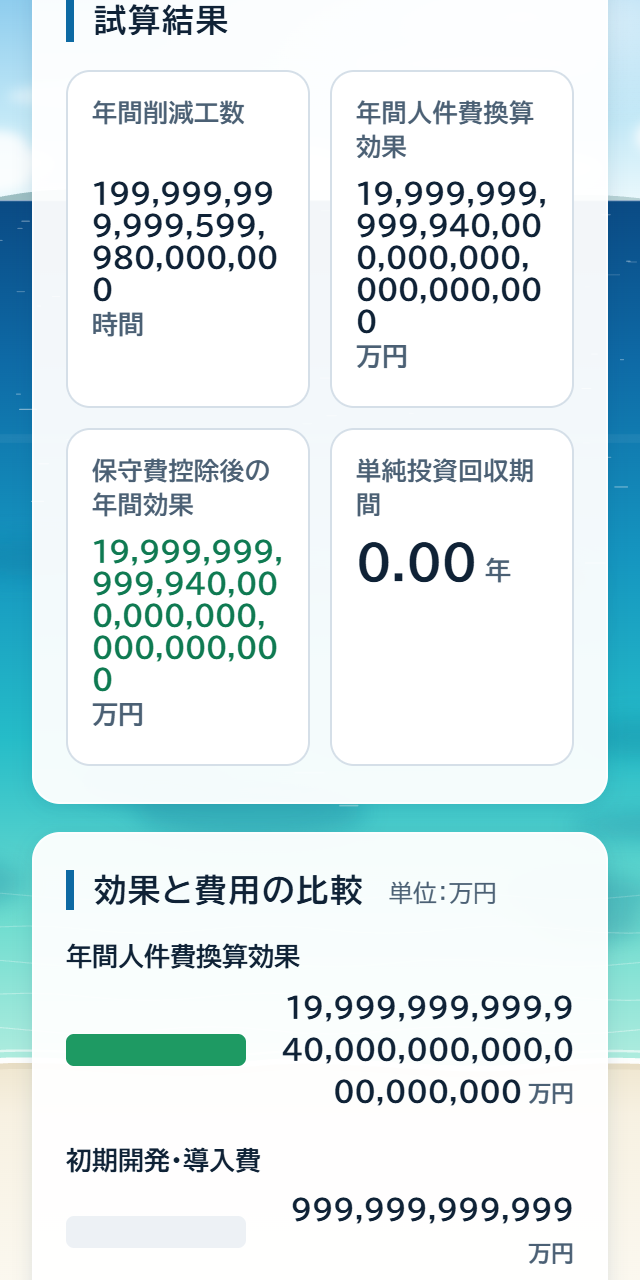
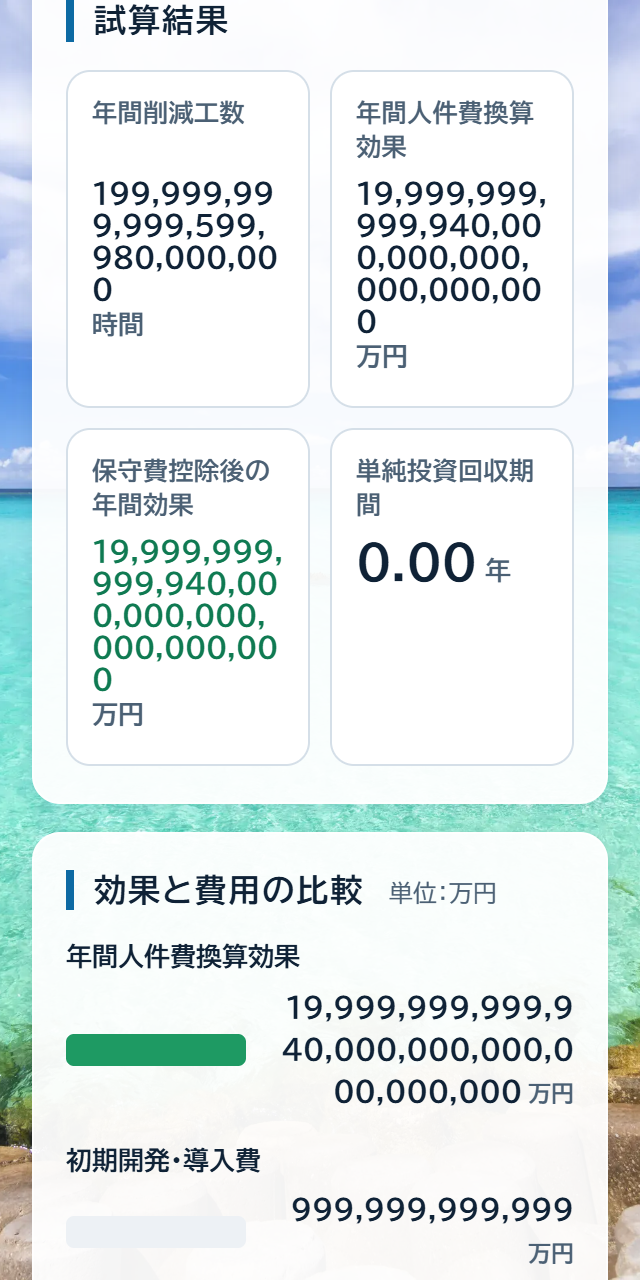
feat: replace background with Okinawa sea photo (v1.0.1)
- img/okinawa-sea.webp replaces the drawn SVG; generator script removed
- white halo on the title for readability over the photo
- tests read the version from app.js instead of hard-coding it

Changed region(s): [[0.0, 0.0, 1.0, 1.0], [0.9375, 0.0, 1.0, 0.0625]]

diff --git a/tests/e2e.test.js b/tests/e2e.test.js
@@ -25,6 +25,8 @@ const CHROME = [
   '/usr/bin/google-chrome',
 ].filter(Boolean).find(p => fs.existsSync(p));
 const sleep = ms => new Promise(r => setTimeout(r, ms));
+/** 今の版（js/app.js の APP_VERSION） */
+const VER = fs.readFileSync(path.join(ROOT, 'js', 'app.js'), 'utf8').match(/APP_VERSION = '([^']+)'/)[1];
 
 // ---------- 試験用の配信（更新試験のときだけ版を差し替える） ----------
 const MIME = { '.html': 'text/html; charset=utf-8', '.js': 'text/javascript; charset=utf-8', '.css': 'text/css; charset=utf-8',
@@ -39,7 +41,7 @@ function startServer() {
       const file = path.join(ROOT, p);
       if (!file.startsWith(ROOT) || !fs.existsSync(file) || fs.statSync(file).isDirectory()) { res.writeHead(404); return res.end(); }
       let body = fs.readFileSync(file);
-      if (nextVersion && (p === '/sw.js' || p === '/js/app.js')) body = Buffer.from(body.toString().replace(/'1\.0\.0'/g, `'${nextVersion}'`));
+      if (nextVersion && (p === '/sw.js' || p === '/js/app.js')) body = Buffer.from(body.toString().split(`'${VER}'`).join(`'${nextVersion}'`));
       res.writeHead(200, { 'Content-Type': MIME[path.extname(file)] || 'application/octet-stream', 'Cache-Control': 'no-cache' });
       res.end(body);
     });
@@ -224,9 +226,9 @@ async function shot(name, width, height, mobile, scrollTo) {
     await ev('navigator.serviceWorker.ready.then(() => true)');
     await reload();
     const info = await ev(`(async () => ({ controlled: !!navigator.serviceWorker.controller, keys: await caches.keys(),
-      n: (await (await caches.open('roi-simulator-1.0.0')).keys()).length }))()`);
+      n: (await (await caches.open('roi-simulator-${VER}')).keys()).length }))()`);
     ok(info.controlled, 'Service Worker が画面を制御していない');
-    eq(info.keys, ['roi-simulator-1.0.0'], 'キャッシュ名');
+    eq(info.keys, [`roi-simulator-${VER}`], 'キャッシュ名');
     eq(info.n, 13, 'キャッシュしたファイル数');
     return `キャッシュ ${info.n} ファイル`;
   });
@@ -415,7 +417,7 @@ async function shot(name, width, height, mobile, scrollTo) {
     await setAll({ casesPerMonth: 3000 });
     const s = await snapshot();
     eq(cardTexts(s), ['6,000', '3,000', '2,900', '0.17'], 'オフラインでの結果');
-    const bg = await ev(`new Promise(r => { const i = new Image(); i.onload = () => r(true); i.onerror = () => r(false); i.src = './img/okinawa-sea.svg?x=1'; })`);
+    const bg = await ev(`new Promise(r => { const i = new Image(); i.onload = () => r(true); i.onerror = () => r(false); i.src = './img/okinawa-sea.webp?x=1'; })`);
     ok(bg, '背景画像がオフラインで出ない');
     await cdp.send('Network.emulateNetworkConditions', { offline: false, latency: 0, downloadThroughput: -1, uploadThroughput: -1 });
     await startServer();
@@ -425,26 +427,26 @@ async function shot(name, width, height, mobile, scrollTo) {
 
   await test('アプリ更新後に新しい版になり、古いキャッシュが消える', async () => {
     await ev(`caches.open('tire-pressure-v3').then(() => true)`);        // 同じ住所の他アプリのキャッシュ（消えてはいけない）
-    nextVersion = '1.0.1-test';
+    nextVersion = VER + '-next';
     await reload();                                                      // 古い版で開く → 裏で新しい版を検出 → 自動で 1 回読み直す
     let s;
     for (let i = 0; i < 40; i++) {
       await sleep(250);
-      try { s = await snapshot(); if (s.version === 'v1.0.1-test') break; } catch (e) { /* 読み直し中 */ }
+      try { s = await snapshot(); if (s.version === 'v' + nextVersion) break; } catch (e) { /* 読み直し中 */ }
     }
-    eq(s.version, 'v1.0.1-test', '表示中の版');
+    eq(s.version, 'v' + nextVersion, '表示中の版');
     const keys = await ev('caches.keys()');
-    eq(keys.slice().sort(), ['roi-simulator-1.0.1-test', 'tire-pressure-v3'], 'キャッシュ（古い版だけ消える）');
+    eq(keys.slice().sort(), [`roi-simulator-${nextVersion}`, 'tire-pressure-v3'], 'キャッシュ（古い版だけ消える）');
     eq(cardTexts(s), ['3,000', '1,500', '1,400', '0.36'], '更新後の計算');
     nextVersion = null;                                                  // 元の版に戻す（以降の試験と画面写真のため）
     await reload();
     for (let i = 0; i < 40; i++) {
       await sleep(250);
-      try { s = await snapshot(); if (s.version === 'v1.0.0') break; } catch (e) { /* 読み直し中 */ }
+      try { s = await snapshot(); if (s.version === 'v' + VER) break; } catch (e) { /* 読み直し中 */ }
     }
-    eq(s.version, 'v1.0.0', '元の版に戻る');
+    eq(s.version, 'v' + VER, '元の版に戻る');
     await ev(`caches.delete('tire-pressure-v3')`);
-    return '開き直し 1 回で v1.0.0 → v1.0.1-test（→ v1.0.0 に戻す）・他アプリのキャッシュは残る';
+    return `開き直し 1 回で v${VER} → v${VER}-next（→ v${VER} に戻す）・他アプリのキャッシュは残る`;
   });
 
   await test('素の 127.0.0.1 では Service Worker を登録しない（他アプリと競合しない）', async () => {

diff --git a/css/app.css b/css/app.css
@@ -27,7 +27,7 @@ body {
   min-height: 100vh;
   font-family: var(--font);
   color: var(--text);
-  background: #bfe6f4;            /* 画像が読めないときの色 */
+  background: #8fdcd6;            /* 画像が読めないときの色 */
   line-height: 1.5;
   overflow-x: hidden;
   -webkit-font-smoothing: antialiased;
@@ -38,7 +38,7 @@ body {
   position: fixed;
   inset: 0;
   z-index: -1;
-  background: #bfe6f4 url("../img/okinawa-sea.svg") center top / cover no-repeat;
+  background: #8fdcd6 url("../img/okinawa-sea.webp") center 30% / cover no-repeat;
 }
 
 /* ---------- 見出し ---------- */
@@ -55,12 +55,14 @@ body {
   letter-spacing: 0.01em;
   color: #0a2b48;
   line-height: 1.15;
+  text-shadow: 0 0 10px rgba(255, 255, 255, 0.9), 0 0 2px rgba(255, 255, 255, 0.9);
 }
 .title-ja {
   font-size: 15px;
   font-weight: 700;
   letter-spacing: 0.08em;
   color: #1d3f5d;
+  text-shadow: 0 0 8px rgba(255, 255, 255, 0.95), 0 0 2px rgba(255, 255, 255, 0.95);
 }
 
 main {

diff --git a/sw.js b/sw.js
@@ -3,7 +3,7 @@
  * ★アプリを更新したら VERSION を上げる（js/app.js の APP_VERSION と同じ値）。
  *   新しい版が入ると古い版のキャッシュは自動で消え、開いている画面は 1 回だけ読み直される。
  */
-const VERSION = '1.0.0';
+const VERSION = '1.0.1';
 const CACHE_PREFIX = 'roi-simulator-';            // 同じ住所に置く他のアプリのキャッシュとは名前で分ける
 const CACHE_NAME = CACHE_PREFIX + VERSION;
 const ASSETS = [
@@ -14,7 +14,7 @@ const ASSETS = [
   './js/calc.js',
   './js/format.js',
   './js/app.js',
-  './img/okinawa-sea.svg',
+  './img/okinawa-sea.webp',
   './icons/icon-192.png',
   './icons/icon-512.png',
   './icons/icon-maskable-512.png',

diff --git a/js/app.js b/js/app.js
@@ -7,7 +7,7 @@
   const Fmt = window.RoiFormat;
 
   /** ★更新したら sw.js の VERSION と同じ値にそろえる */
-  const APP_VERSION = '1.0.0';
+  const APP_VERSION = '1.0.1';
   /** 保存の名前。同じ住所に置く他のアプリ（例: tire-pressure-app）と重ならない名前にする */
   const STORAGE_KEY = 'roi-simulator.state';
   const SCHEMA = 1;

diff --git a/README.md b/README.md
@@ -29,16 +29,15 @@
 | ファイル | 役割 |
 |---|---|
 | `index.html` | 画面の骨組み（タイトル → 案件名 → 入力 5 項目 → 結果カード → グラフ → リセット・コピー → 注意事項） |
-| `css/app.css` | 見た目（沖縄の海の背景・白いパネル・大きいスライダー） |
+| `css/app.css` | 見た目（沖縄の海の写真の背景・白いパネル・大きいスライダー） |
 | `js/calc.js` | **計算ロジック**（画面に依存しない。Node からも使える） |
 | `js/format.js` | **表示用の丸めと文字の整形**（画面とコピー文が同じ関数を使う） |
 | `js/app.js` | 画面の動き（入力の同期・表示・保存・リセット・コピー・Service Worker の登録） |
 | `sw.js` | Service Worker（オフライン対応・版ごとのキャッシュ） |
 | `manifest.webmanifest` | アプリ名・アイコン・全画面表示の設定 |
-| `img/okinawa-sea.svg` | 背景（沖縄の海・人物なし。14KB のベクター画像） |
+| `img/okinawa-sea.webp` | 背景（沖縄の海の写真・人物なし。Koji 提供の写真を 1333×2000・約 240KB の WebP にしたもの） |
 | `icons/` | アプリアイコン（192 / 512 / maskable 512 / iOS 用 180 / favicon 32） |
 | `tools/serve.py` | 手元で動かす確認用サーバー（Python 標準ライブラリのみ） |
-| `tools/make_background.py` | 背景画像を作り直すスクリプト |
 | `tools/make_icons.py` | アイコンを作り直すスクリプト（Pillow が必要） |
 | `tests/unit.test.js` | 計算の単体試験（Node） |
 | `tests/e2e.test.js` | 実ブラウザ（Chrome）での機能試験 |

diff --git a/docs/TEST_RESULTS.md b/docs/TEST_RESULTS.md
@@ -1,4 +1,6 @@
-# 試験項目と結果（ROI Simulator 1.0.0）
+# 試験項目と結果（ROI Simulator 1.0.1）
+
+> 1.0.1 は背景を写真に差し替えた版。1〜4 は 1.0.1 で流し直した結果。6 は 1.0.0 の公開時の確認。
 
 - 実施日: 2026-11-27
 - 実施環境: Windows 11 / Node.js 24.22 / Google Chrome 158（Windows 版・画面なしで自動操作）
